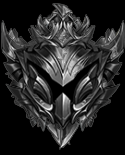
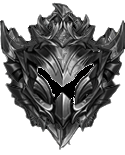
Finished badges

diff --git a/vape_app/lib/settings/settings_helper.dart b/vape_app/lib/settings/settings_helper.dart
@@ -1,4 +1,5 @@
 //TODO: fix all the text fields and buttons (after abdulaziz is done)
+// import 'package:charts_flutter/flutter.dart';
 import 'package:flutter/material.dart';
 import 'package:provider/provider.dart';
 import 'package:flutter/cupertino.dart';
@@ -12,6 +13,7 @@ import 'package:vape_app/services/auth.dart';
 import 'package:vape_app/shared/ReusableFlatButton.dart';
 import 'package:vape_app/services/logs.dart';
 import 'package:vape_app/Models/Trigger.dart';
+import 'package:vape_app/Models/Log.dart';
 
 class AlwaysDisabledFocusNode extends FocusNode {
   @override
@@ -47,16 +49,150 @@ class _SettingsHelperState extends State<SettingsHelper> {
   final dobTextController = TextEditingController();
 
   //badges variables
-  String ach1 = 'badges/1.png';
+  List<String> achievementStrings = [ "badges/1g.png",
+                                      "badges/2g.png",
+                                      "badges/3g.png",
+                                      "badges/4g.png",
+                                      "badges/5g.png",
+                                      "badges/6g.png",
+                                      "badges/7g.png",
+                                      "badges/8g.png",
+                                      "badges/9g.png"];
+  bool achievementVisibility = false;
+  String achievementButton = "Show Achievements";
+
+  toggleAchievements() {
+    setState(() {
+      achievementVisibility = !achievementVisibility;
+
+      if (achievementVisibility) {
+        achievementButton = "Show Achievements";
+      } else {
+        achievementButton = "Hide Achievements";
+      }
+    });
+  }
+
+  setupBadges(logs) {
+    if (logs != null) {
+      setState(() {
+        var lastHitTime = logs.length > 0
+            ? DateTime.parse(logs.first.dateTime.toDate().toString())
+            : new DateTime.now(); //last log time goes here
+        var current = new DateTime.now();
+        var diff = current.difference(lastHitTime);
+        
+        if (diff.inDays > 181 ) {
+          achievementStrings = [  "badges/1.png",
+                                  "badges/2.png",
+                                  "badges/3.png",
+                                  "badges/4.png",
+                                  "badges/5.png",
+                                  "badges/6.png",
+                                  "badges/7.png",
+                                  "badges/8.png",
+                                  "badges/9.png"];
+        } else if (diff.inDays > 91) {
+          achievementStrings = [  "badges/1.png",
+                                  "badges/2.png",
+                                  "badges/3.png",
+                                  "badges/4.png",
+                                  "badges/5.png",
+                                  "badges/6.png",
+                                  "badges/7.png",
+                                  "badges/8.png",
+                                  "badges/9g.png"];
+        } else if (diff.inDays > 29) {
+          achievementStrings = [  "badges/1.png",
+                                  "badges/2.png",
+                                  "badges/3.png",
+                                  "badges/4.png",
+                                  "badges/5.png",
+                                  "badges/6.png",
+                                  "badges/7.png",
+                                  "badges/8g.png",
+                                  "badges/9g.png"];
+        } else if (diff.inDays > 20) {
+          achievementStrings = [  "badges/1.png",
+                                  "badges/2.png",
+                                  "badges/3.png",
+                                  "badges/4.png",
+                                  "badges/5.png",
+                                  "badges/6.png",
+                                  "badges/7g.png",
+                                  "badges/8g.png",
+                                  "badges/9g.png"];
+        } else if (diff.inDays > 13) {
+          achievementStrings = [  "badges/1.png",
+                                  "badges/2.png",
+                                  "badges/3.png",
+                                  "badges/4.png",
+                                  "badges/5.png",
+                                  "badges/6g.png",
+                                  "badges/7g.png",
+                                  "badges/8g.png",
+                                  "badges/9g.png"];
+        } else if (diff.inDays > 6) {
+          achievementStrings = [  "badges/1.png",
+                                  "badges/2.png",
+                                  "badges/3.png",
+                                  "badges/4.png",
+                                  "badges/5g.png",
+                                  "badges/6g.png",
+                                  "badges/7g.png",
+                                  "badges/8g.png",
+                                  "badges/9g.png"];
+        } else if (diff.inDays > 4) {
+          achievementStrings = [  "badges/1.png",
+                                  "badges/2.png",
+                                  "badges/3.png",
+                                  "badges/4g.png",
+                                  "badges/5g.png",
+                                  "badges/6g.png",
+                                  "badges/7g.png",
+                                  "badges/8g.png",
+                                  "badges/9g.png"];
+        } else if (diff.inDays > 2) {
+          achievementStrings = [  "badges/1.png",
+                                  "badges/2.png",
+                                  "badges/3g.png",
+                                  "badges/4g.png",
+                                  "badges/5g.png",
+                                  "badges/6g.png",
+                                  "badges/7g.png",
+                                  "badges/8g.png",
+                                  "badges/9g.png"];
+        } else if (diff.inDays > 0) {
+          achievementStrings = [  "badges/1.png",
+                                  "badges/2g.png",
+                                  "badges/3g.png",
+                                  "badges/4g.png",
+                                  "badges/5g.png",
+                                  "badges/6g.png",
+                                  "badges/7g.png",
+                                  "badges/8g.png",
+                                  "badges/9g.png"];
+        } else {
+          achievementStrings = [  "badges/1g.png",
+                                  "badges/2g.png",
+                                  "badges/3g.png",
+                                  "badges/4g.png",
+                                  "badges/5g.png",
+                                  "badges/6g.png",
+                                  "badges/7g.png",
+                                  "badges/8g.png",
+                                  "badges/9g.png"];
+        }
+      });
+    }
+  }
 
   toggleNotifications() {
     setState(() {
       if (notifText == "Turn off notifications") {
         notifText = "Turn on notifications";
-        ach1 = 'badges/1g.png';
       } else {
         notifText = "Turn off notifications";
-        ach1 = 'badges/1.png';
       }
     });
     
@@ -123,6 +259,8 @@ class _SettingsHelperState extends State<SettingsHelper> {
     final _auth = AuthService();
     final user = Provider.of<User>(context);
     final userData = Provider.of<UserData>(context);
+    final logs = Provider.of<List<Log>>(context) ?? [];
+    setupBadges(logs);
 
     return StreamBuilder<List<Trigger>>(
       stream: DatabaseService(uid: user.uid).triggers,
@@ -184,7 +322,7 @@ class _SettingsHelperState extends State<SettingsHelper> {
                         padding: const EdgeInsets.fromLTRB(10, 7, 160, 0),
                         child: TextField(
                           onTap: () => _selectDate(context),
-                          // style: new TextStyle(fontSize: 20.0),
+                          style: new TextStyle(fontSize: 20.0),
                           key: Key('dob-field'),
                           focusNode: AlwaysDisabledFocusNode(),
                           controller: dobTextController,
@@ -268,60 +406,78 @@ class _SettingsHelperState extends State<SettingsHelper> {
                         alignment: Alignment.centerLeft,
                         child: Padding(
                           padding: const EdgeInsets.fromLTRB(10, 5, 0, 0),
-                          child: Text("Achievements:",
-                            style: TextStyle(
-                              color: Colors.black,
-                              fontSize: 16
+                          child: Container(
+                            width: 165,
+                            child: FlatButton(
+                              color: Colors.blue,
+                              child: Text(achievementButton),
+                              onPressed: toggleAchievements,
                             ),
                           ),
                         ),
                       ),
 
-                      SizedBox(height: 10,),
-                      Column(
-                        crossAxisAlignment: CrossAxisAlignment.center,
-                        mainAxisAlignment: MainAxisAlignment.center,
-                        children: <Widget>[
-                          Row(
-                            crossAxisAlignment: CrossAxisAlignment.center,
-                            mainAxisAlignment: MainAxisAlignment.spaceAround,
-                            children: <Widget>[
-                              Image(image: AssetImage(ach1), height: 50,),
-                              Image(image: AssetImage('badges/2.png'), height: 50,),
-                              Image(image: AssetImage('badges/3.png'), height: 50,),
-                              Image(image: AssetImage('badges/4.png'), height: 50,),
-                          ]),
+                      // Visibility(
+                      //   visible: !triggerVisibility,
+                      //   child: Padding(
+                      //     padding: const EdgeInsets.fromLTRB(0, 8, 220, 0),
+                      //     child: FlatButton(
+                      //       color: Colors.blue,
+                      //       child: Text("Add custom trigger"),
+                      //       onPressed: toggleTrigger,
+                      //     ),
+                      //   ),
+                      // ),
 
-                          Container(
-                            width: 240,
-                            child: Row(
+                      
+                      Visibility(
+                        visible: achievementVisibility,
+                        child: Column(
+                          crossAxisAlignment: CrossAxisAlignment.center,
+                          mainAxisAlignment: MainAxisAlignment.center,
+                          children: <Widget>[
+                            SizedBox(height: 10,),
+                            Row(
                               crossAxisAlignment: CrossAxisAlignment.center,
-                              mainAxisAlignment: MainAxisAlignment.spaceBetween,
+                              mainAxisAlignment: MainAxisAlignment.spaceAround,
                               children: <Widget>[
-                                Image(image: AssetImage('badges/5.png'), height: 55,),
-                                Image(image: AssetImage('badges/6.png'), height: 55,),
-                                Image(image: AssetImage('badges/7.png'), height: 55,),
+                                Image(image: AssetImage(achievementStrings[0]), height: 50,),
+                                Image(image: AssetImage(achievementStrings[1]), height: 50,),
+                                Image(image: AssetImage(achievementStrings[2]), height: 50,),
+                                Image(image: AssetImage(achievementStrings[3]), height: 50,),
                             ]),
-                          ),
-                          
-                          Container(
-                            width: 145,
-                            child: Row(
-                              crossAxisAlignment: CrossAxisAlignment.center,
-                              mainAxisAlignment: MainAxisAlignment.spaceBetween,
-                              children: <Widget>[
-                                Image(image: AssetImage('badges/8.png'), height: 60,),
-                                Image(image: AssetImage('badges/9.png'), height: 60,),
-                            ]),
-                          )
-                      ],),
+
+                            Container(
+                              width: 240,
+                              child: Row(
+                                crossAxisAlignment: CrossAxisAlignment.center,
+                                mainAxisAlignment: MainAxisAlignment.spaceBetween,
+                                children: <Widget>[
+                                  Image(image: AssetImage(achievementStrings[4]), height: 55,),
+                                  Image(image: AssetImage(achievementStrings[5]), height: 55,),
+                                  Image(image: AssetImage(achievementStrings[6]), height: 55,),
+                              ]),
+                            ),
+                            
+                            Container(
+                              width: 145,
+                              child: Row(
+                                crossAxisAlignment: CrossAxisAlignment.center,
+                                mainAxisAlignment: MainAxisAlignment.spaceBetween,
+                                children: <Widget>[
+                                  Image(image: AssetImage(achievementStrings[7]), height: 60,),
+                                  Image(image: AssetImage(achievementStrings[8]), height: 60,),
+                              ]),
+                            )
+                        ],),
+                      ),
 
 
                       //ADD A TRIGGER//
                       Visibility(
                         visible: !triggerVisibility,
                         child: Padding(
-                          padding: const EdgeInsets.fromLTRB(0, 8, 220, 0),
+                          padding: const EdgeInsets.fromLTRB(2, 0, 220, 0),
                           child: FlatButton(
                             color: Colors.blue,
                             child: Text("Add custom trigger"),

diff --git a/vape_app/lib/settings/achievements_helper.dart b/vape_app/lib/settings/achievements_helper.dart
@@ -1,0 +1,31 @@
+import 'package:flutter/material.dart';
+import 'package:provider/provider.dart';
+import 'package:vape_app/Models/User.dart';
+import 'package:vape_app/services/database.dart';
+import 'package:vape_app/settings/settings_helper.dart';
+import 'package:vape_app/shared/loading.dart';
+import 'package:vape_app/Models/Log.dart';
+
+import 'UserDataSettings.dart';
+
+
+class AchievementsHelper extends StatefulWidget {
+  @override
+  _AchievementsHelperState createState() => _AchievementsHelperState();
+}
+
+class _AchievementsHelperState extends State<AchievementsHelper> {
+  @override
+ Widget build(BuildContext context) {
+    //Grab current user
+    final user = Provider.of<User>(context);
+    if (user != null)
+      return StreamProvider<List<Log>>.value(
+        value: DatabaseService(uid: user.uid).logs,
+        child: UserDataSettings(),
+      );
+    else
+      return Loading();
+  }
+}
+

diff --git a/vape_app/lib/settings/settings.dart b/vape_app/lib/settings/settings.dart
@@ -5,6 +5,7 @@ import 'package:vape_app/services/database.dart';
 import 'package:vape_app/shared/loading.dart';
 
 import 'UserDataSettings.dart';
+import 'achievements_helper.dart';
 
 //Widget used to get the triggers from the stream and send to LogsPageHelper()
 //Where the data will be displayed
@@ -21,7 +22,7 @@ class _SettingsState extends State<Settings> {
     if (user != null)
       return StreamProvider<UserData>.value(
         value: DatabaseService(uid: user.uid).userData,
-        child: UserDataSettings(),
+        child: AchievementsHelper(),
       );
     else
       return Loading();

diff --git a/vape_app/lib/settings/UserDataSettings.dart b/vape_app/lib/settings/UserDataSettings.dart
@@ -13,6 +13,7 @@ class _UserDataSettingsState extends State<UserDataSettings> {
   @override
   Widget build(BuildContext context) {
     final userData = Provider.of<UserData>(context);
+    
     if (userData != null)
       return SettingsHelper(name: userData.name, goal: userData.goal);
     else
